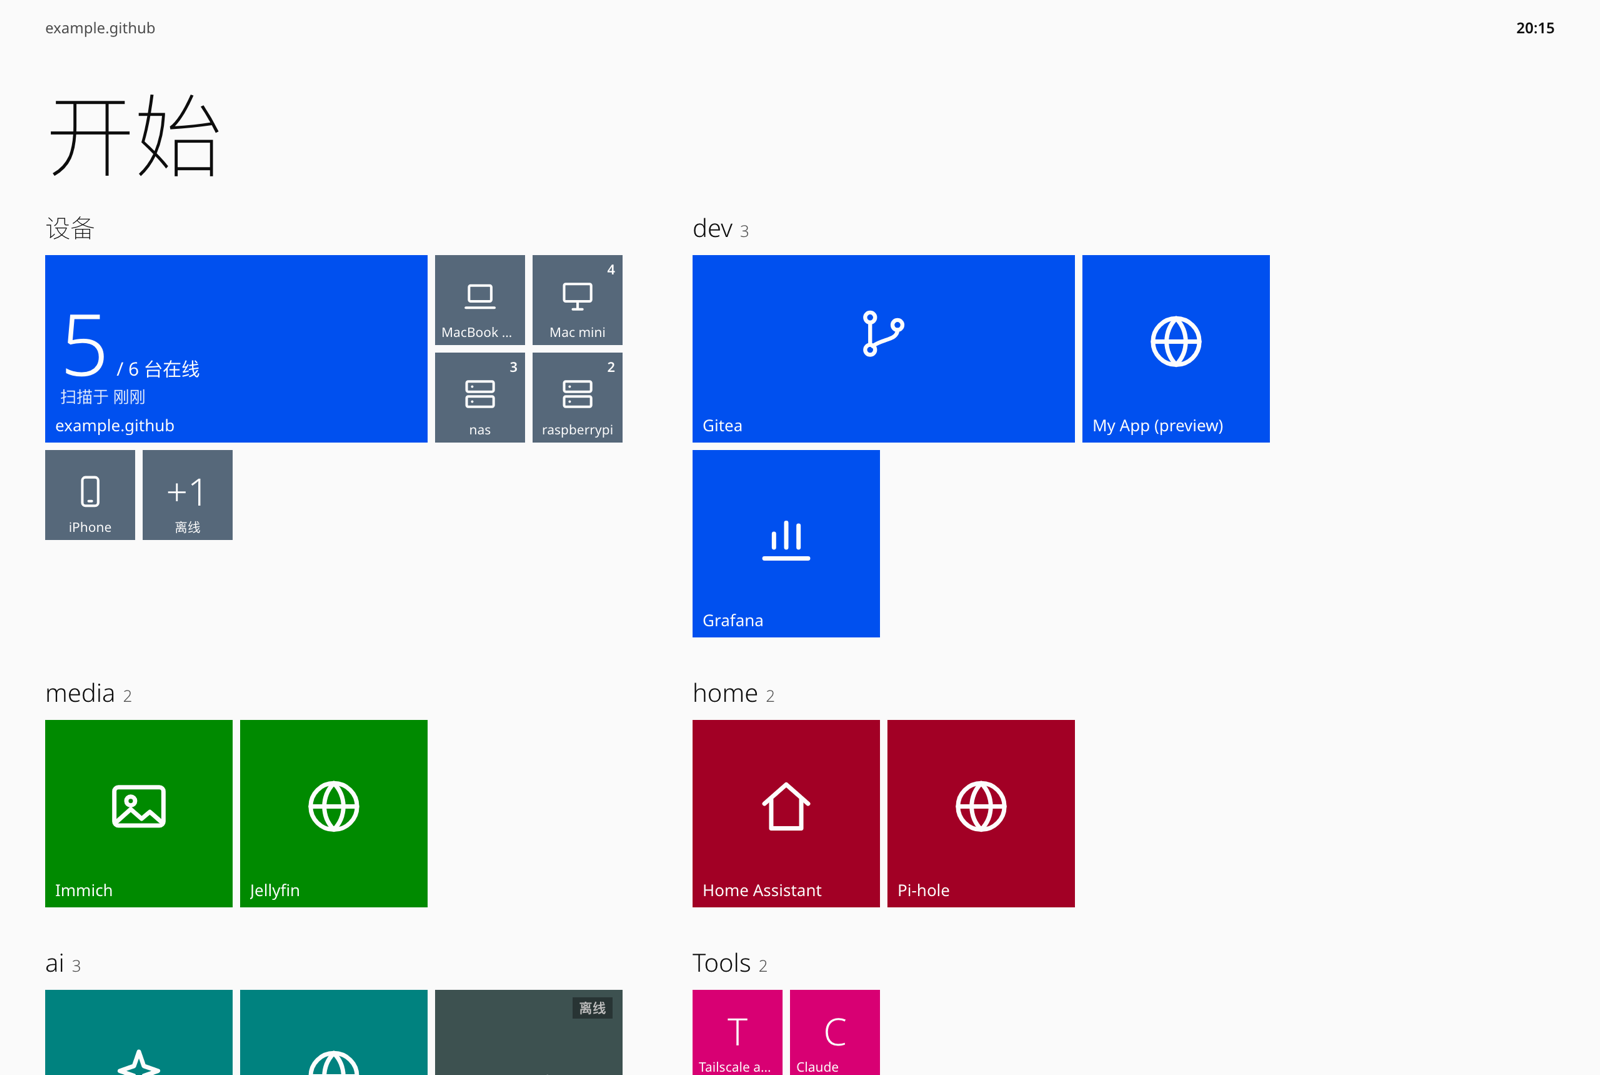
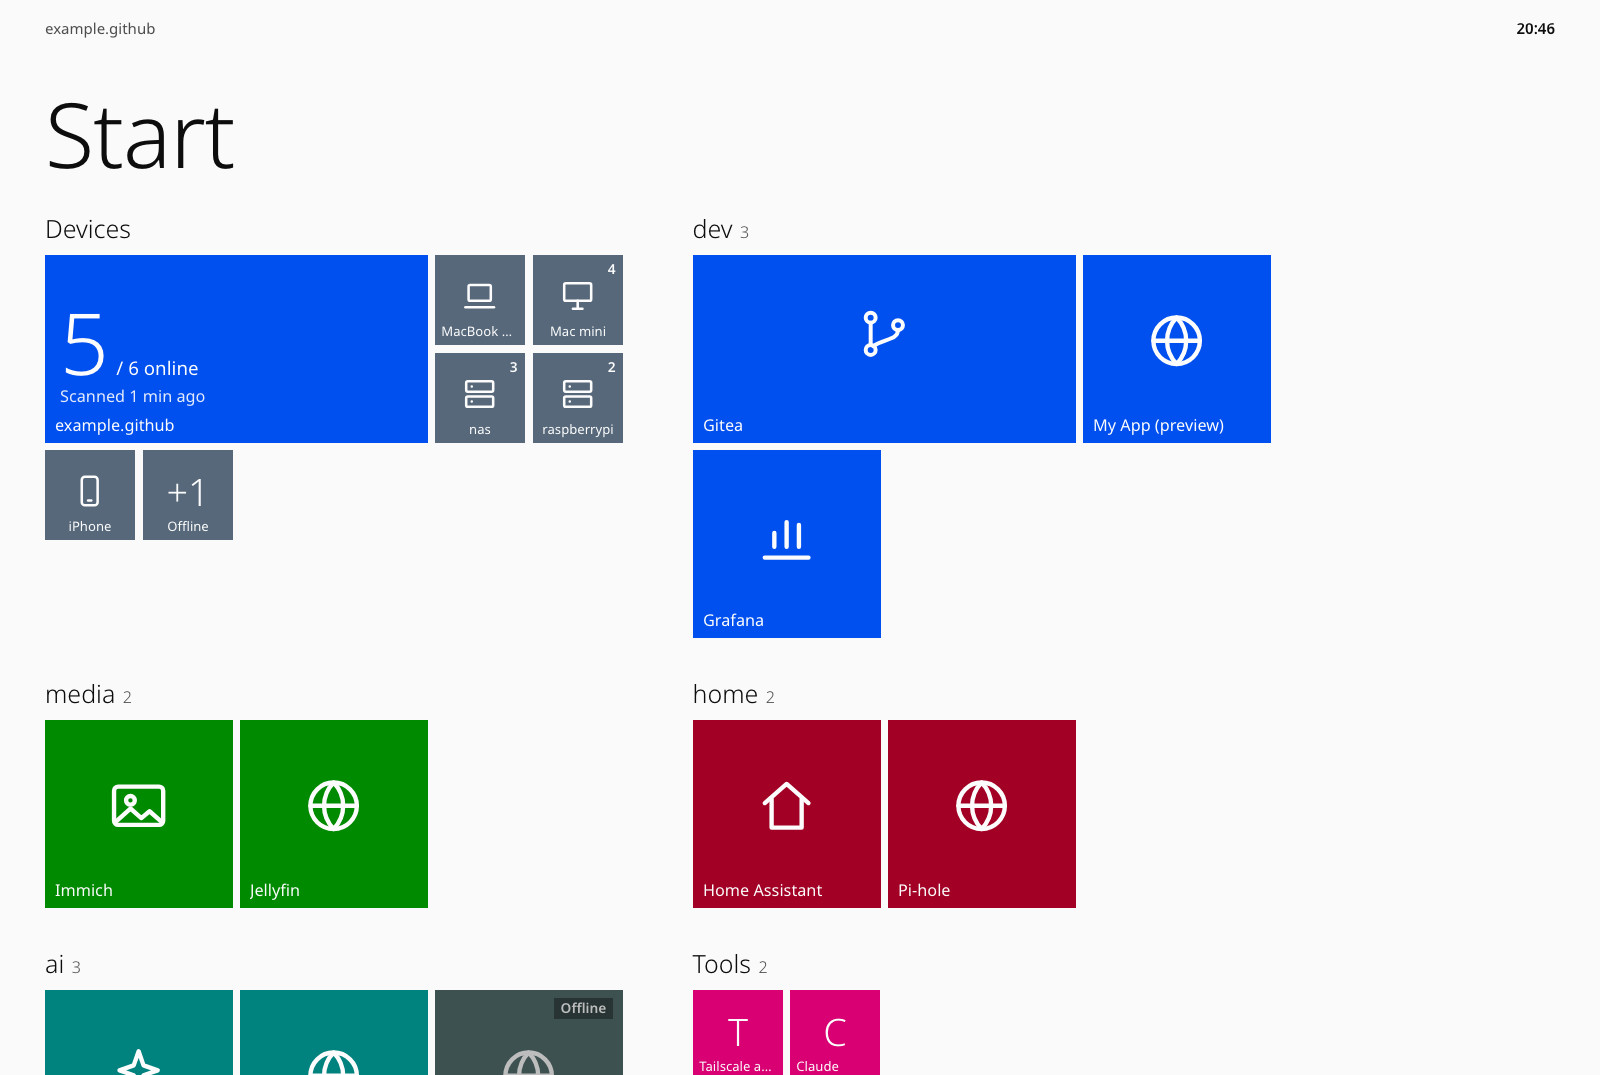
Add English UI, Linux setup and social preview
- UI strings move into an en/zh dictionary; language comes from ?lang=,
  then "lang" in services.json, then the browser
- scan.py CLI messages in English; passes "lang" through to data.json
- systemd user service + timer templates and a Linux (no CI) README section
- English screenshots and a 1280x640 social preview image

Claude-Session: https://claude.ai/code/session_01DGvx2EKGsNoc8kxAKM9xUm

diff --git a/public/index.html b/public/index.html
@@ -1,5 +1,5 @@
 <!doctype html>
-<html lang="zh-CN">
+<html lang="en">
 <head>
 <meta charset="utf-8">
 <meta name="viewport" content="width=device-width, initial-scale=1, viewport-fit=cover">
@@ -129,11 +129,11 @@
 <body>
 <div class="wrap">
   <div class="tray"><span id="tray-l"></span><b id="clock"></b></div>
-  <h1>开始</h1>
+  <h1 id="title"></h1>
   <main id="main" class="groups" aria-busy="true">
     <div class="group"><div class="grid"><div class="tile w skel"></div><div class="tile m skel"></div></div></div>
   </main>
-  <footer><kbd>↑ ↓</kbd> 选择　<kbd>↵</kbd> 打开　<kbd>⌘↵</kbd> 新标签　<kbd>Esc</kbd> 返回全部　·　每 10 分钟自动扫描</footer>
+  <footer id="keys"></footer>
 </div>
 <div class="toast" id="toast" role="status"></div>
 
@@ -144,6 +144,47 @@ if (!location.pathname.endsWith('/') && !location.pathname.endsWith('.html')) {
 }
 
 const $ = id => document.getElementById(id);
+
+// ── 界面文案：?lang= > data.json 的 lang > 浏览器语言 ──
+const I18N = {
+  en: {
+    start: 'Start', devices: 'Devices', other: 'Other', offline: 'Offline', unreachable: 'Unreachable', online: 'Online',
+    collapse: 'Hide', justNow: 'just now', min: m => `${m} min ago`, hr: h => `${h} h ago`, day: d => `${d} d ago`,
+    lastSeen: t => `, last seen ${t}`, onlineOf: n => `/ ${n} online`, scanned: t => `Scanned ${t}`,
+    stale: t => `No new data for ${t.replace(' ago', '')}`, back: '‹ Press Esc or tap the device again',
+    deviceDetail: 'Device details', overview: 'Device overview', nServices: n => `${n} service${n > 1 ? 's' : ''}`, self: 'this device',
+    showOffline: n => `Show ${n} offline device${n > 1 ? 's' : ''}`, hideOffline: 'Hide offline devices',
+    noSvc: '<strong>No services on this device</strong>Add some in services.json; they show up after the next scan.',
+    copied: v => `Copied ${v}`, sep: ', ',
+    loadFail: '<strong>Can’t load the service list</strong>data.json failed to load: the scan may not have run yet, or the network is down.',
+    retry: 'Reload',
+    keys: '<kbd>↑ ↓</kbd> select　<kbd>↵</kbd> open　<kbd>⌘↵</kbd> new tab　<kbd>Esc</kbd> show all　·　rescanned every 10 min',
+  },
+  zh: {
+    start: '开始', devices: '设备', other: '其他', offline: '离线', unreachable: '不可达', online: '在线',
+    collapse: '收起', justNow: '刚刚', min: m => `${m} 分钟前`, hr: h => `${h} 小时前`, day: d => `${d} 天前`,
+    lastSeen: t => `，最后出现于 ${t}`, onlineOf: n => `/ ${n} 台在线`, scanned: t => `扫描于 ${t}`,
+    stale: t => `数据已${t.replace('前', '')}未更新`, back: '‹ 按 Esc 或再点一次设备返回',
+    deviceDetail: '设备详情', overview: '设备概况', nServices: n => `${n} 个服务`, self: '本机',
+    showOffline: n => `显示 ${n} 台离线设备`, hideOffline: '收起离线设备',
+    noSvc: '<strong>这台设备上没有服务</strong>在 services.json 里为它添加，下次扫描后出现在这里。',
+    copied: v => `已复制 ${v}`, sep: '，',
+    loadFail: '<strong>暂时读不到服务列表</strong>data.json 加载失败：可能是扫描任务还没跑过，或网络中断。',
+    retry: '重新加载',
+    keys: '<kbd>↑ ↓</kbd> 选择　<kbd>↵</kbd> 打开　<kbd>⌘↵</kbd> 新标签　<kbd>Esc</kbd> 返回全部　·　每 10 分钟自动扫描',
+  },
+};
+const pickLang = pref => /^zh/i.test(pref || '') ? 'zh' : pref ? 'en' : null;
+let T;
+function setLang(dataLang) {
+  const lang = pickLang(new URLSearchParams(location.search).get('lang')) || pickLang(dataLang) || pickLang(navigator.language) || 'en';
+  T = I18N[lang];
+  document.documentElement.lang = lang === 'zh' ? 'zh-CN' : 'en';
+  $('title').textContent = T.start;
+  $('keys').innerHTML = T.keys;
+}
+setLang();
+const OTHER = '\0other';   // 未打标签的分组，显示时再翻译
 // engaged：用户按过方向键之后才显示选中框
 const state = { data: null, device: null, sel: 0, animate: true, engaged: false, showOffline: false };
 const usage = (() => { try { return JSON.parse(localStorage.getItem('tsh-usage') || '{}'); } catch { return {}; } })();
@@ -217,10 +258,10 @@ const short = d => label(d).replace(/^.*?['’]s\s+/, '');   // 「Alice’s Mac
 function ago(iso) {
   if (!iso || iso.startsWith('0001')) return '';
   const m = Math.round((Date.now() - new Date(iso)) / 60000);
-  if (m < 1) return '刚刚';
-  if (m < 60) return `${m} 分钟前`;
-  if (m < 1440) return `${Math.round(m / 60)} 小时前`;
-  return `${Math.round(m / 1440)} 天前`;
+  if (m < 1) return T.justNow;
+  if (m < 60) return T.min(m);
+  if (m < 1440) return T.hr(Math.round(m / 60));
+  return T.day(Math.round(m / 1440));
 }
 
 function services() {
@@ -238,8 +279,8 @@ function groupBy(list, key) {
     if (!groups.has(g)) groups.set(g, []);
     groups.get(g).push(x);
   }
-  const other = groups.get('其他');
-  if (other) { groups.delete('其他'); groups.set('其他', other); }
+  const other = groups.get(OTHER);
+  if (other) { groups.delete(OTHER); groups.set(OTHER, other); }
   return [...groups];
 }
 
@@ -248,12 +289,12 @@ let n = 0;   // 可导航条目序号
 function svcTile(s, size) {
   const d = deviceOf(s.device);
   const off = d && !d.online;
-  const flag = off ? '离线' : s.up === false ? '不可达' : '';    // 可达性由 scan.py 在服务器端检查
+  const flag = off ? T.offline : s.up === false ? T.unreachable : '';    // 可达性由 scan.py 在服务器端检查
   const desc = s.source === 'manual' && s.note ? s.note : '';
   const meta = [state.device ? '' : d ? short(d) : s.device, gate(s.url)].filter(Boolean).join(' · ');
   const i = n++;
   return `<a class="tile ${size}${off ? ' dim' : ''}${state.engaged && i === state.sel ? ' sel' : ''}" data-nav data-i="${i}"
-             href="${esc(s.url)}" data-url="${esc(s.url)}" title="${esc(`${s.name}\n${s.url}`)}" aria-label="${esc(s.name)}${flag ? '，' + flag : ''}">
+             href="${esc(s.url)}" data-url="${esc(s.url)}" title="${esc(`${s.name}\n${s.url}`)}" aria-label="${esc(s.name)}${flag ? T.sep + flag : ''}">
     <div class="faces">
       <div class="face"><div class="glyph">${svg(glyphOf(s))}</div></div>
       ${size !== 's' ? `<div class="face back"><p>${esc(desc || s.name)}</p><span>${esc(meta)}</span></div>` : ''}
@@ -267,23 +308,23 @@ function overviewTile() {
   const { devices, services: all, tailnet, generated } = state.data;
   const d = state.device && deviceOf(state.device);
   if (d) {
-    const st = d.online ? '在线' : `离线${ago(d.lastSeen) ? '，最后出现于 ' + ago(d.lastSeen) : ''}`;
-    return `<section class="tile w ov" aria-label="设备详情">
+    const st = d.online ? T.online : `${T.offline}${ago(d.lastSeen) ? T.lastSeen(ago(d.lastSeen)) : ''}`;
+    return `<section class="tile w ov" aria-label="${T.deviceDetail}">
       <div class="dev-name">${esc(short(d))}</div>
       <div class="sub">${esc(d.os)} · ${st}</div>
       <dl>
         <dt>IP</dt><dd><button class="copy" data-copy="${esc(d.ip)}">${esc(d.ip)}</button></dd>
         <dt>DNS</dt><dd><button class="copy" data-copy="${esc(d.dns)}">${esc(d.dns)}</button></dd>
       </dl>
-      <span class="lbl">‹ 按 Esc 或再点一次设备返回</span>
+      <span class="lbl">${T.back}</span>
       <span class="badge">${all.filter(s => s.device === d.name).length}</span>
     </section>`;
   }
   const online = devices.filter(x => x.online).length;
   const stale = Date.now() - new Date(generated) > 30 * 60000;   // 扫描每 10 分钟一次，超过 30 分钟说明扫描停了
-  return `<section class="tile w ov" aria-label="设备概况">
-    <div class="num">${online}<small>/ ${devices.length} 台在线</small></div>
-    <div class="sub">${stale ? `<span class="stale">数据已${ago(generated).replace('前', '')}未更新</span>` : `扫描于 ${ago(generated) || '刚刚'}`}</div>
+  return `<section class="tile w ov" aria-label="${T.overview}">
+    <div class="num">${online}<small>${T.onlineOf(devices.length)}</small></div>
+    <div class="sub">${stale ? `<span class="stale">${T.stale(ago(generated))}</span>` : T.scanned(ago(generated) || T.justNow)}</div>
     <span class="lbl">${esc(tailnet)}</span>
   </section>`;
 }
@@ -295,14 +336,14 @@ function deviceTiles() {
   const offline = devices.filter(d => !d.online).length;
   return shown.map(d => `
     <button class="tile s${d.online ? '' : ' dim'}" style="--c:var(--steel)" data-device="${esc(d.name)}" aria-pressed="${state.device === d.name}"
-            title="${esc(label(d))}" aria-label="${esc(label(d))}，${d.online ? '在线' : '离线'}${count(d.name) ? `，${count(d.name)} 个服务` : ''}${d.self ? '，本机' : ''}">
+            title="${esc(label(d))}" aria-label="${esc(label(d))}${T.sep}${d.online ? T.online : T.offline}${count(d.name) ? T.sep + T.nServices(count(d.name)) : ''}${d.self ? T.sep + T.self : ''}">
       <div class="glyph">${svg(deviceGlyph(d))}</div>
       <span class="lbl">${esc(short(d))}</span>${count(d.name) ? `<span class="badge">${count(d.name)}</span>` : ''}
     </button>`).join('') +
     (offline ? `<button class="tile s" style="--c:var(--steel)" id="more" aria-expanded="${state.showOffline}"
-        aria-label="${state.showOffline ? '收起离线设备' : `显示 ${offline} 台离线设备`}">
+        aria-label="${state.showOffline ? T.hideOffline : T.showOffline(offline)}">
       <div class="glyph">${state.showOffline ? svg('more') : `<span class="ch">+${offline}</span>`}</div>
-      <span class="lbl">${state.showOffline ? '收起' : '离线'}</span></button>` : '');
+      <span class="lbl">${state.showOffline ? T.collapse : T.offline}</span></button>` : '');
 }
 
 function render() {
@@ -312,20 +353,20 @@ function render() {
   const list = services();
   // 点击最多的服务用宽磁贴
   const top = !state.device && [...list].sort((a, b) => (usage[b.url] || 0) - (usage[a.url] || 0) || a.order - b.order)[0];
-  const groups = groupBy(list, s => (s.tags || [])[0] || '其他');
-  const marks = state.device ? [] : groupBy(state.data.bookmarks || [], b => b.group || '其他');
+  const groups = groupBy(list, s => (s.tags || [])[0] || OTHER);
+  const marks = state.device ? [] : groupBy(state.data.bookmarks || [], b => b.group || OTHER);
   let g = 0;
 
-  let html = `<section class="group" style="--i:${g++}"><h2>设备</h2><div class="grid" style="--c:var(--cobalt)">${overviewTile()}${deviceTiles()}</div></section>`;
+  let html = `<section class="group" style="--i:${g++}"><h2>${T.devices}</h2><div class="grid" style="--c:var(--cobalt)">${overviewTile()}${deviceTiles()}</div></section>`;
   if (state.device && !list.length) {
-    html += `<div class="note"><strong>这台设备上没有服务</strong>在 services.json 里为它添加，下次扫描后出现在这里。</div>`;
+    html += `<div class="note">${T.noSvc}</div>`;
   }
   groups.forEach(([name, items], gi) => {
-    html += `<section class="group" style="--i:${g++}"><h2>${esc(name)}<small>${items.length}</small></h2>
+    html += `<section class="group" style="--i:${g++}"><h2>${name === OTHER ? T.other : esc(name)}<small>${items.length}</small></h2>
       <div class="grid" style="--c:var(--${PALETTE[gi % PALETTE.length]})">${items.map(s => svcTile(s, s === top ? 'w' : 'm')).join('')}</div></section>`;
   });
   marks.forEach(([name, items], mi) => {
-    html += `<section class="group" style="--i:${g++}"><h2>${esc(name)}<small>${items.length}</small></h2>
+    html += `<section class="group" style="--i:${g++}"><h2>${name === OTHER ? T.other : esc(name)}<small>${items.length}</small></h2>
       <div class="grid" style="--c:var(--${PALETTE[(groups.length + mi) % PALETTE.length]})">${items.map(b => {
         // 网站图标常带不透明底色，转成剪影会变成白方块，所以统一用细体首字母
         const ch = esc(([...b.name.trim()][0] || '?').toUpperCase());
@@ -364,7 +405,7 @@ document.addEventListener('pointerdown', e => {
 
 function tick() {
   const now = new Date();
-  $('clock').textContent = now.toLocaleTimeString('zh-CN', { hour: '2-digit', minute: '2-digit', hour12: false });
+  $('clock').textContent = now.toLocaleTimeString(undefined, { hour: '2-digit', minute: '2-digit', hour12: false });
 }
 
 function saveState() {
@@ -403,7 +444,7 @@ function select(i) {
 document.addEventListener('click', e => {
   if (e.target.closest('#more')) { state.showOffline = !state.showOffline; refresh(); return; }
   const cp = e.target.closest('[data-copy]');
-  if (cp) { navigator.clipboard?.writeText(cp.dataset.copy).then(() => toast(`已复制 ${cp.dataset.copy}`)); return; }
+  if (cp) { navigator.clipboard?.writeText(cp.dataset.copy).then(() => toast(T.copied(cp.dataset.copy))); return; }
   const dv = e.target.closest('[data-device]');
   if (dv) { state.device = state.device === dv.dataset.device ? null : dv.dataset.device; state.sel = 0; refresh(); return; }
   const t = e.target.closest('[data-nav]');
@@ -425,6 +466,7 @@ function load() {
     .then(r => { if (!r.ok) throw new Error(r.status); return r.json(); })
     .then(data => {
       state.data = data;
+      setLang(data.lang);
       document.title = data.title;
       $('tray-l').textContent = data.tailnet;
       loadState();
@@ -434,8 +476,7 @@ function load() {
     })
     .catch(() => {
       $('main').removeAttribute('aria-busy');
-      $('main').innerHTML = `<div class="note" role="alert"><strong>暂时读不到服务列表</strong>
-        data.json 加载失败：可能是扫描任务还没跑过，或网络中断。<br><button id="retry">重新加载</button></div>`;
+      $('main').innerHTML = `<div class="note" role="alert">${T.loadFail}<br><button id="retry">${T.retry}</button></div>`;
       $('retry').onclick = load;
     });
 }

diff --git a/scan.py b/scan.py
@@ -44,7 +44,7 @@ def find_cli():
         r = subprocess.run([c, "version"], capture_output=True, text=True, env=CLI_ENV)
         if r.returncode == 0:
             return c
-    sys.exit("找不到可用的 tailscale CLI，可通过 TAILSCALE_BIN 指定路径")
+    sys.exit("tailscale CLI not found; set TAILSCALE_BIN to its path")
 
 
 def ts_json(cli, *args):
@@ -171,15 +171,15 @@ def probe(dev, port):
 
 def main():
     ap = argparse.ArgumentParser()
-    ap.add_argument("--probe", action="store_true", help="扫描在线设备的常见 Web 端口")
+    ap.add_argument("--probe", action="store_true", help="probe common web ports on online devices")
     ap.add_argument("-o", "--out", default=str(ROOT / "public" / "data.json"))
-    ap.add_argument("-s", "--services", default=str(ROOT / "services.json"), help="手动服务清单")
+    ap.add_argument("-s", "--services", default=str(ROOT / "services.json"), help="hand-written services file")
     args = ap.parse_args()
 
     cli = find_cli()
     status = ts_json(cli, "status")
     if not status:
-        sys.exit("tailscale status 失败，Tailscale 是否在运行？")
+        sys.exit("`tailscale status` failed. Is Tailscale running?")
 
     self_dev = to_device(status["Self"], is_self=True)
     devices = [self_dev] + sorted(
@@ -229,6 +229,7 @@ def main():
 
     data = {
         "title": manual.get("title", "Tailnet Home"),
+        "lang": manual.get("lang", ""),   # 空则由浏览器语言决定
         "tailnet": (status.get("CurrentTailnet") or {}).get("Name", ""),
         "suffix": status.get("MagicDNSSuffix", ""),
         "generated": datetime.now(timezone.utc).isoformat(timespec="seconds"),
@@ -238,7 +239,7 @@ def main():
     }
     Path(args.out).write_text(json.dumps(data, ensure_ascii=False, indent=2))
     online = sum(d["online"] for d in devices)
-    print(f"写入 {args.out}: {len(devices)} 台设备({online} 在线), {len(services)} 个服务")
+    print(f"wrote {args.out}: {len(devices)} devices ({online} online), {len(services)} services")
 
 
 if __name__ == "__main__":

diff --git a/README.md b/README.md
@@ -29,6 +29,7 @@ A start page for your [Tailscale](https://tailscale.com) network — every devic
 - Real reachability check done by the scanner (not the browser), shown as tile status
 - Keyboard first: `↑↓` select, `↵` open, `⌘↵` open in new tab, `Esc` clear filter; filter by tag or device
 - Most-clicked services float to the top (stored in your browser only)
+- English and Chinese UI, following the browser (or force it with `?lang=en` / `"lang"` in `services.json`)
 - One static HTML file + one stdlib-only Python script. No build step, no framework, no database
 
 ## Quick start
@@ -58,6 +59,7 @@ scan.py                        # tailscale status/serve (+ probe) + services.jso
 public/index.html              # the whole UI
 Dockerfile, deploy/nginx.conf  # nginx image serving public/ and /data.json
 deploy/*.plist                 # LaunchAgent template: rerun scan.py every 10 min (macOS)
+deploy/*.service, *.timer      # the same as a systemd user timer (Linux)
 .gitea/workflows/deploy.yml    # push to main → sync, build, deploy, health check
 ```
 
@@ -74,7 +76,27 @@ deploy/*.plist                 # LaunchAgent template: rerun scan.py every 10 mi
 
 The scanner runs on the host, not in the container, because it calls the host's Tailscale CLI. Rollback: set `IMAGE_TAG` in the deploy dir's `.env` to an older commit prefix and run `docker compose up -d --no-build`.
 
-On Linux, replace the LaunchAgent with a systemd timer or cron entry running `scan.py --probe -s var/services.json -o var/data.json`.
+## Linux, without CI
+
+No Gitea needed: run the container and a systemd timer from a clone of this repo.
+
+```bash
+git clone https://github.com/muzig/tailscale-home.git ~/tailscale-home && cd ~/tailscale-home
+mkdir -p var && cp services.example.json var/services.json      # edit it
+docker compose up -d --build                                    # serves var/data.json on 127.0.0.1:4183
+
+mkdir -p ~/.config/systemd/user
+for f in deploy/tailscale-home-scan.{service,timer}; do
+  sed "s|__DEPLOY_DIR__|$PWD|g" "$f" > ~/.config/systemd/user/"$(basename "$f")"
+done
+systemctl --user daemon-reload && systemctl --user enable --now tailscale-home-scan.timer
+loginctl enable-linger "$USER"                                  # keep the timer running after logout
+
+sudo tailscale set --operator="$USER"                           # lets scan.py read `tailscale serve status`
+tailscale serve --bg --set-path / http://127.0.0.1:4183
+```
+
+Update with `git pull && docker compose up -d --build`. To get push-to-deploy, point any CI runner on the server (Gitea Actions, a GitHub Actions self-hosted runner, …) at the same steps as `.gitea/workflows/deploy.yml`.
 
 ## The Claude Code loop
 
@@ -96,7 +118,6 @@ With only `device` + `port`/`path`/`scheme`, the address is built from the devic
 
 ## Notes
 
-- The UI labels are in Chinese for now; PRs adding i18n are welcome.
 - This is an unofficial community project, not affiliated with or endorsed by Tailscale Inc. or Anthropic.
 - Keep it inside your tailnet (`tailscale serve`, not `funnel`): `data.json` lists your devices and IPs. See [SECURITY.md](SECURITY.md).
 

diff --git a/README.zh-CN.md b/README.zh-CN.md
@@ -29,6 +29,7 @@
 - 可达性由扫描端实测（不受浏览器限制），显示在磁贴状态上
 - 键盘直达：`↑↓` 选择、`↵` 打开、`⌘↵` 新标签打开、`Esc` 清除筛选；按标签或设备筛选
 - 常用服务按点击次数自动排前（只存在本浏览器）
+- 中英文界面，跟随浏览器语言（也可用 `?lang=zh` 或 `services.json` 里的 `"lang"` 指定）
 - 一个静态 HTML + 一个只用标准库的 Python 脚本，无构建、无框架、无数据库
 
 ## 快速开始
@@ -64,7 +65,29 @@ python3 -m http.server -d public 8000
 
    macOS 应用版的 CLI 是 `/Applications/Tailscale.app/Contents/MacOS/Tailscale`，非终端环境需加 `TAILSCALE_BE_CLI=1`。
 
-扫描脚本在宿主机上跑而不进容器，因为要调用宿主机的 Tailscale CLI。回滚：把部署目录 `.env` 里的 `IMAGE_TAG` 改成旧提交前缀，再 `docker compose up -d --no-build`。Linux 上用 systemd timer 或 cron 代替 LaunchAgent。
+扫描脚本在宿主机上跑而不进容器，因为要调用宿主机的 Tailscale CLI。回滚：把部署目录 `.env` 里的 `IMAGE_TAG` 改成旧提交前缀，再 `docker compose up -d --no-build`。
+
+## Linux（不用 CI）
+
+不需要 Gitea，在仓库目录里跑容器加一个 systemd 定时器即可：
+
+```bash
+git clone https://github.com/muzig/tailscale-home.git ~/tailscale-home && cd ~/tailscale-home
+mkdir -p var && cp services.example.json var/services.json      # 按需编辑
+docker compose up -d --build                                    # 在 127.0.0.1:4183 提供 var/data.json
+
+mkdir -p ~/.config/systemd/user
+for f in deploy/tailscale-home-scan.{service,timer}; do
+  sed "s|__DEPLOY_DIR__|$PWD|g" "$f" > ~/.config/systemd/user/"$(basename "$f")"
+done
+systemctl --user daemon-reload && systemctl --user enable --now tailscale-home-scan.timer
+loginctl enable-linger "$USER"                                  # 注销后定时器继续运行
+
+sudo tailscale set --operator="$USER"                           # 让 scan.py 能读取 tailscale serve status
+tailscale serve --bg --set-path / http://127.0.0.1:4183
+```
+
+更新：`git pull && docker compose up -d --build`。想要 push 即部署，在服务器上装任意 CI runner（Gitea Actions、GitHub Actions 自托管 runner 等），照搬 `.gitea/workflows/deploy.yml` 的步骤即可。
 
 ## Claude Code 开发闭环
 
